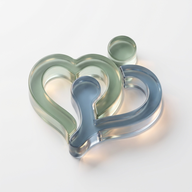
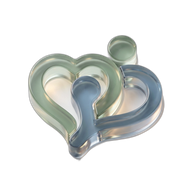
Fix_favicon_deployment_add_all_generated_files

diff --git a/generate_transparent_favicons.py b/generate_transparent_favicons.py
@@ -1,0 +1,49 @@
+from rembg import remove
+from PIL import Image
+import os
+
+source_path = r"C:\Users\mike\.gemini\antigravity\scratch\madvnp-website\logo_source.jpg"
+transparent_path = r"C:\Users\mike\.gemini\antigravity\scratch\madvnp-website\logo_transparent.png"
+dest_dir = r"C:\Users\mike\.gemini\antigravity\scratch\madvnp-website\public"
+
+# 1. Remove Background
+try:
+    print(f"Removing background from {source_path}...")
+    input_image = Image.open(source_path)
+    output_image = remove(input_image)
+    output_image.save(transparent_path)
+    print(f"Saved transparent logo to {transparent_path}")
+except Exception as e:
+    print(f"Error removing background: {e}")
+    exit(1)
+
+# 2. Generate Favicons
+sizes = [
+    (16, 16, "favicon-16x16.png"),
+    (32, 32, "favicon-32x32.png"),
+    (180, 180, "apple-touch-icon.png"),
+    (192, 192, "android-chrome-192x192.png"),
+    (512, 512, "android-chrome-512x512.png")
+]
+
+try:
+    img = Image.open(transparent_path)
+    
+    # Generate PNGs
+    for w, h, name in sizes:
+        resized = img.resize((w, h), Image.Resampling.LANCZOS)
+        resized.save(os.path.join(dest_dir, name))
+        print(f"Generated {name}")
+
+    # Generate ICO (16, 32, 48) - ICO usually needs standard sizes
+    ico_sizes = [(16, 16), (32, 32), (48, 48)]
+    ico_imgs = []
+    for w, h in ico_sizes:
+        ico_imgs.append(img.resize((w, h), Image.Resampling.LANCZOS))
+    
+    ico_path = os.path.join(dest_dir, "favicon.ico")
+    ico_imgs[0].save(ico_path, format='ICO', sizes=ico_sizes, append_images=ico_imgs[1:])
+    print("Generated favicon.ico")
+
+except Exception as e:
+    print(f"Error generating favicons: {e}")
